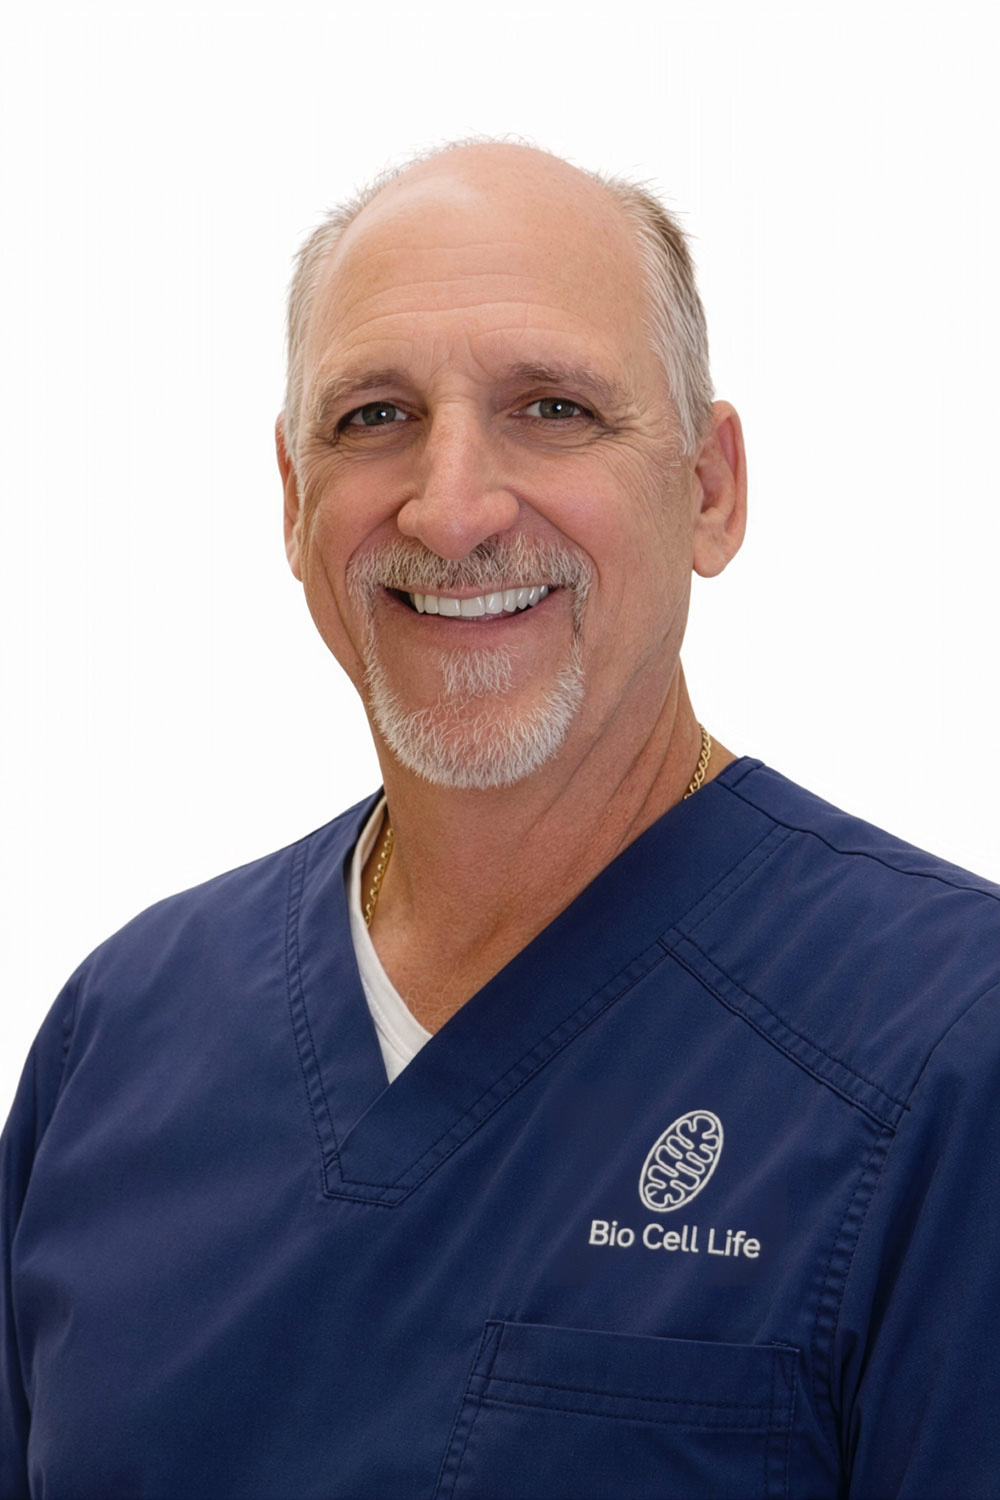
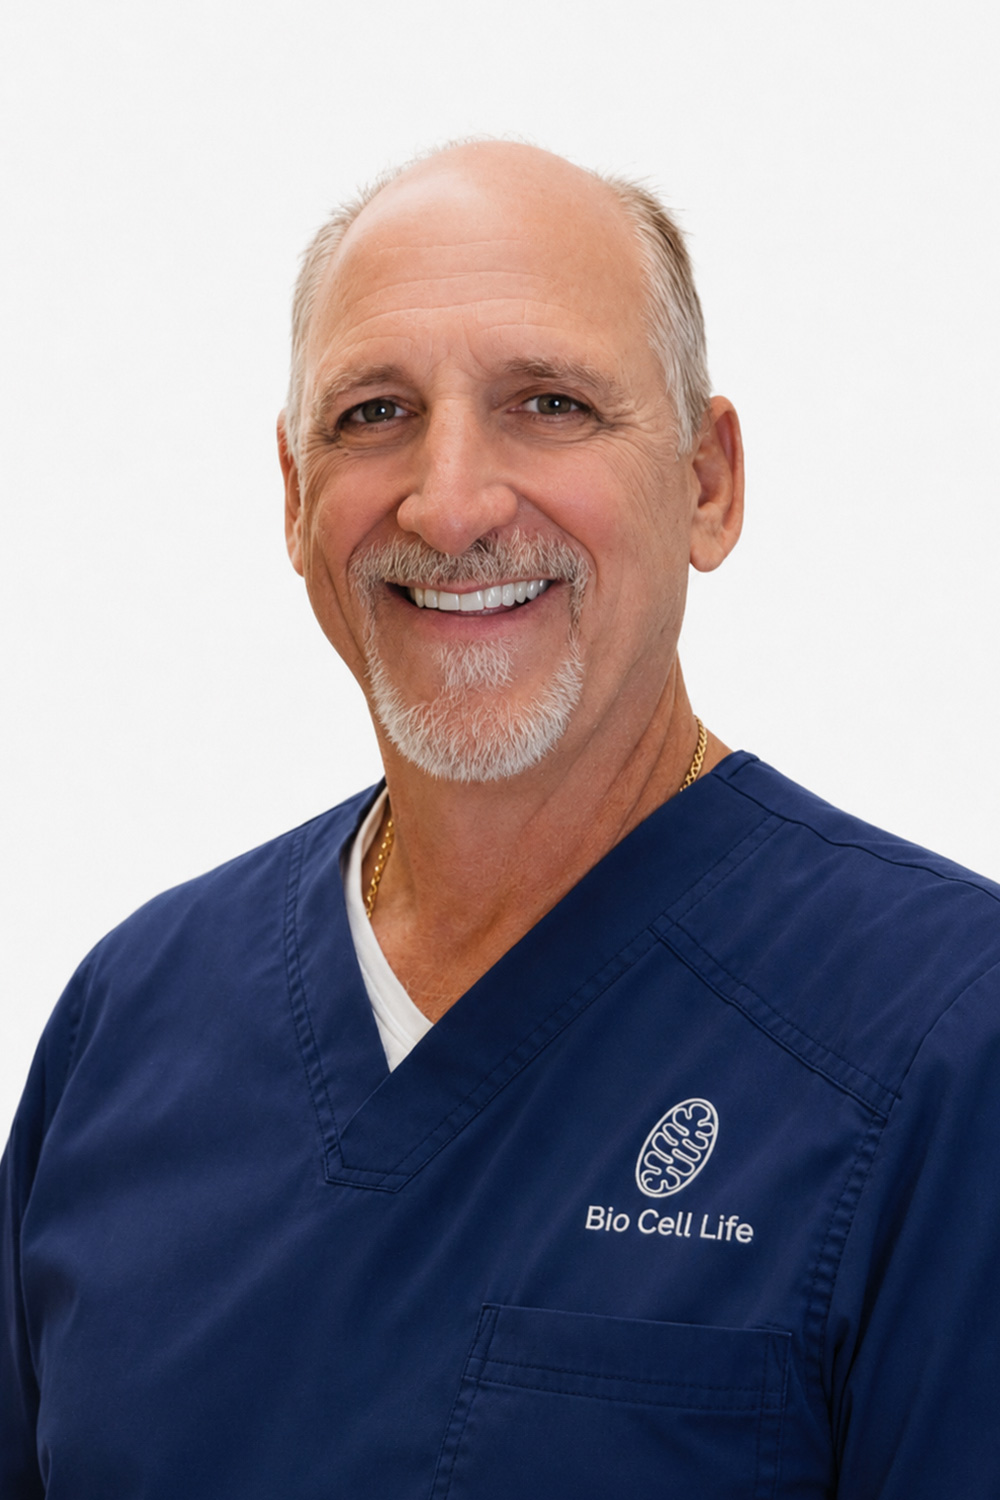
Updated Headshots

diff --git a/about.html b/about.html
@@ -85,7 +85,7 @@ fetch('/components/header.html')
     </div>
 
     <div class="employee-card">
-      <img src="assets/img/about/generic_avatar_w2.jpg" alt="Employee">
+      <img src="assets/img/about/clodyoliveira.jpg" alt="Employee">
       <div class="employee-info">
         <h3>Clody Oliveira</h3>
         <p>AMT Master Technician</p>
